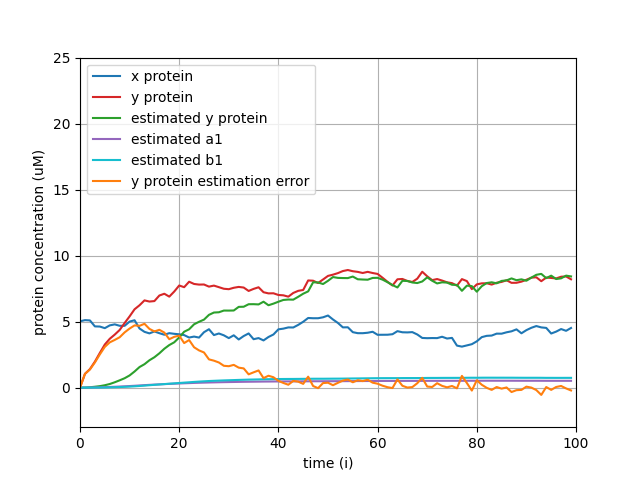
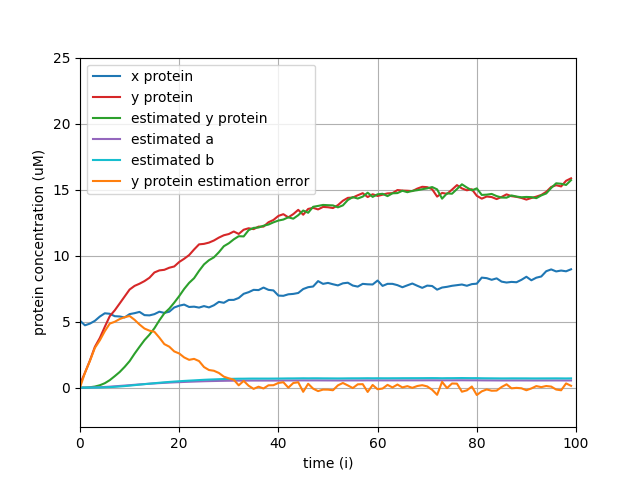
Added files to attempt adaptive filter on image

diff --git a/main.py b/main.py
@@ -2,41 +2,42 @@ import numpy as np
 import xlsxwriter
 import matplotlib.pyplot as plt
 
-N = 100                     # total number of data points
-n = np.arange(0, N, 1)      # [0,..., N-1] vector
+N = 100  # total number of data points
+n = np.arange(0, N, 1)  # [0,..., N-1] vector
 
-x = np.full(N, 5.0)         # measured protein x concentration in uM (vector), constant measured x protein concentration (= 5 uM)
-y = np.full(N, 0.0)         # measured protein y concentration in uM (vector)
-a1 = np.full(N, 0.2)        # constant a1 parameter (vector) of 0.2
-b1 = np.full(N, 0.9)        # constant b1 parameter (vector) of 0.9
-m = 0                       # mean of Gaussian noise
-sd = 0.2                    # standard deviation of Gaussian noise
-x[0] = x[0] + np.random.normal(m, sd)       # initial measured x protein concentration (simulated)
-y[0] = 0 + np.random.normal(m, sd)          # initial measured y protein concentration (simulated)
+x = np.full(N, 5.0)  # measured protein x concentration in uM (vector), constant measured x protein concentration (= 5 uM)
+y = np.full(N, 0.0)  # measured protein y concentration in uM (vector)
+a = np.full(N, 0.2)  # constant a1 parameter (vector) of 0.2
+b = np.full(N, 0.9)  # constant b1 parameter (vector) of 0.9
+m = 0  # mean of Gaussian noise
+sd = 0.2  # standard deviation of Gaussian noise
+x[0] = x[0] + np.random.normal(m, sd)  # initial measured x protein concentration (simulated)
+y[0] = 0 + np.random.normal(m, sd)  # initial measured y protein concentration (simulated)
 
-yHat = np.full(N, 0.0)      # estimated protein y concentration
-a1Hat = np.full(N, 0.0)     # estimated a1 parameter (vector), initial estimated a1 parameter (= 0 uM)
-b1Hat = np.full(N, 0.0)     # estimated b1 parameter (vector), initial estimated b1 parameter (= 0 uM)
-e = np.full(N, 0.0)         # y protein estimation error in uM (vector) (= y - yHat)
-u = 0.001                   # step size (mu)
+yHat = np.full(N, 0.0)  # estimated protein y concentration
+aHat = np.full(N, 0.0)  # estimated a1 parameter (vector), initial estimated a1 parameter (= 0 uM)
+bHat = np.full(N, 0.0)  # estimated b1 parameter (vector), initial estimated b1 parameter (= 0 uM)
+e = np.full(N, 0.0)  # y protein estimation error in uM (vector) (= y - yHat)
+u = 0.001  # step size (mu)
+
 
 def simulate_estimate():
     for i in range(1, N - 1):
-
         # simulated experiment
-        x[i] = x[i - 1] + np.random.normal(m, sd)                               # measured x protein concentration (simulated)
-        y[i] = a1[i] * x[i - 1] + b1[i] * y[i - 1] + np.random.normal(m, sd)    # measured y protein concentration (simulated)
+        x[i] = x[i - 1] + np.random.normal(m, sd)  # measured x protein concentration (simulated)
+        y[i] = a[i] * x[i - 1] + b[i] * y[i - 1] + np.random.normal(m, sd)  # measured y protein concentration (simulated)
 
         # adaptive system identification (LMS)
-        yHat[i] = a1Hat[i] * x[i - 1] + b1Hat[i] * y[i - 1]     # estimated protein y concentration
-        e[i] = y[i] - yHat[i]                                   # y protein estimation error
-        a1Hat[i + 1] = a1Hat[i] + u * x[i - 1] * e[i]           # estimated a1 parameter
-        b1Hat[i + 1] = b1Hat[i] + u * y[i - 1] * e[i]           # estimated b1 parameter
+        yHat[i] = aHat[i] * x[i - 1] + bHat[i] * y[i - 1]  # estimated protein y concentration
+        e[i] = y[i] - yHat[i]  # y protein estimation error
+        aHat[i + 1] = aHat[i] + u * x[i - 1] * e[i]  # estimated a1 parameter
+        bHat[i + 1] = bHat[i] + u * y[i - 1] * e[i]  # estimated b1 parameter
 
-    x[N - 1] = x[N - 2] + np.random.normal(m, sd)                                       # last measured y protein concentration (simulated)
-    y[N - 1] = a1[N - 1] * x[N - 2] + b1[N - 1] * y[N - 2] + np.random.normal(m, sd)    # last measured y protein concentration (simulated)
-    yHat[N - 1] = a1Hat[N - 1] * x[N - 2] + b1Hat[N - 1] * y[N - 2]                     # last estimated protein y concentration
-    e[N - 1] = y[N - 1] - yHat[N - 1]                                                   # last y protein estimation error
+    x[N - 1] = x[N - 2] + np.random.normal(m, sd)  # last measured y protein concentration (simulated)
+    y[N - 1] = a[N - 1] * x[N - 2] + b[N - 1] * y[N - 2] + np.random.normal(m,
+                                                                              sd)  # last measured y protein concentration (simulated)
+    yHat[N - 1] = aHat[N - 1] * x[N - 2] + bHat[N - 1] * y[N - 2]  # last estimated protein y concentration
+    e[N - 1] = y[N - 1] - yHat[N - 1]  # last y protein estimation error
 
 
 def save_data(filename):
@@ -48,27 +49,28 @@ def save_data(filename):
     worksheet.write('B1', 'x protein')
     worksheet.write('C1', 'y protein')
     worksheet.write('D1', 'estimated y protein')
-    worksheet.write('E1', 'estimated a1')
-    worksheet.write('F1', 'estimated b1')
+    worksheet.write('E1', 'estimated a')
+    worksheet.write('F1', 'estimated b')
     worksheet.write('G1', 'y protein estimation error')
     for i in range(0, N):
-        worksheet.write('A'+str(i+2), i+1)
-        worksheet.write('B'+str(i+2), x[i])
-        worksheet.write('C'+str(i+2), y[i])
-        worksheet.write('D'+str(i+2), yHat[i])
-        worksheet.write('E'+str(i+2), a1Hat[i])
-        worksheet.write('F'+str(i+2), b1Hat[i])
-        worksheet.write('G'+str(i+2), e[i])
+        worksheet.write('A' + str(i + 2), i + 1)
+        worksheet.write('B' + str(i + 2), x[i])
+        worksheet.write('C' + str(i + 2), y[i])
+        worksheet.write('D' + str(i + 2), yHat[i])
+        worksheet.write('E' + str(i + 2), aHat[i])
+        worksheet.write('F' + str(i + 2), bHat[i])
+        worksheet.write('G' + str(i + 2), e[i])
 
     workbook.close()
+
 
 def plot_data(plotname):
     # Print data on a plot
     plt.plot(n, x, 'tab:blue', label='x protein')
     plt.plot(n, y, 'tab:red', label='y protein')
     plt.plot(n, yHat, 'tab:green', label='estimated y protein')
-    plt.plot(n, a1Hat, 'tab:purple', label='estimated a1')
-    plt.plot(n, b1Hat, 'tab:cyan', label='estimated b1')
+    plt.plot(n, aHat, 'tab:purple', label='estimated a')
+    plt.plot(n, bHat, 'tab:cyan', label='estimated b')
     plt.plot(n, e, 'tab:orange', label='y protein estimation error')
     plt.xlabel('time (i)')
     plt.ylabel('protein concentration (uM)')
@@ -76,6 +78,7 @@ def plot_data(plotname):
     plt.axis([0, N, -3, 25])
     plt.grid(True)
     plt.savefig(plotname)
+
 
 def main():
     simulate_estimate()

diff --git a/ImageProcessingAdaptiveFiltering.py b/ImageProcessingAdaptiveFiltering.py
@@ -1,0 +1,32 @@
+import numpy as np
+import cv2
+import math
+import matplotlib.pyplot as plt
+
+img = cv2.imread('image.png', 0)
+cv2.imwrite('image_grayscale.png', img)
+sz = img.shape[0] * img.shape[1]
+
+m = 0           # mean of Gaussian noise
+sd = 0.5      # standard deviation of Gaussian noise
+
+i = 0
+while i < img.shape[0]:
+    j = 0
+    while j < img.shape[1]:
+        img[i][j] = img[i][j] + np.random.normal(m, sd)
+        j += 1
+    i += 1
+
+cv2.imwrite('image_noisey.png', img)
+
+
+# Define the window size mxn
+M = 5
+N = 5
+
+# Pad the array with zeros on all sides
+C = np.pad(img, )
+
+print(img[0])
+print(C[0])
